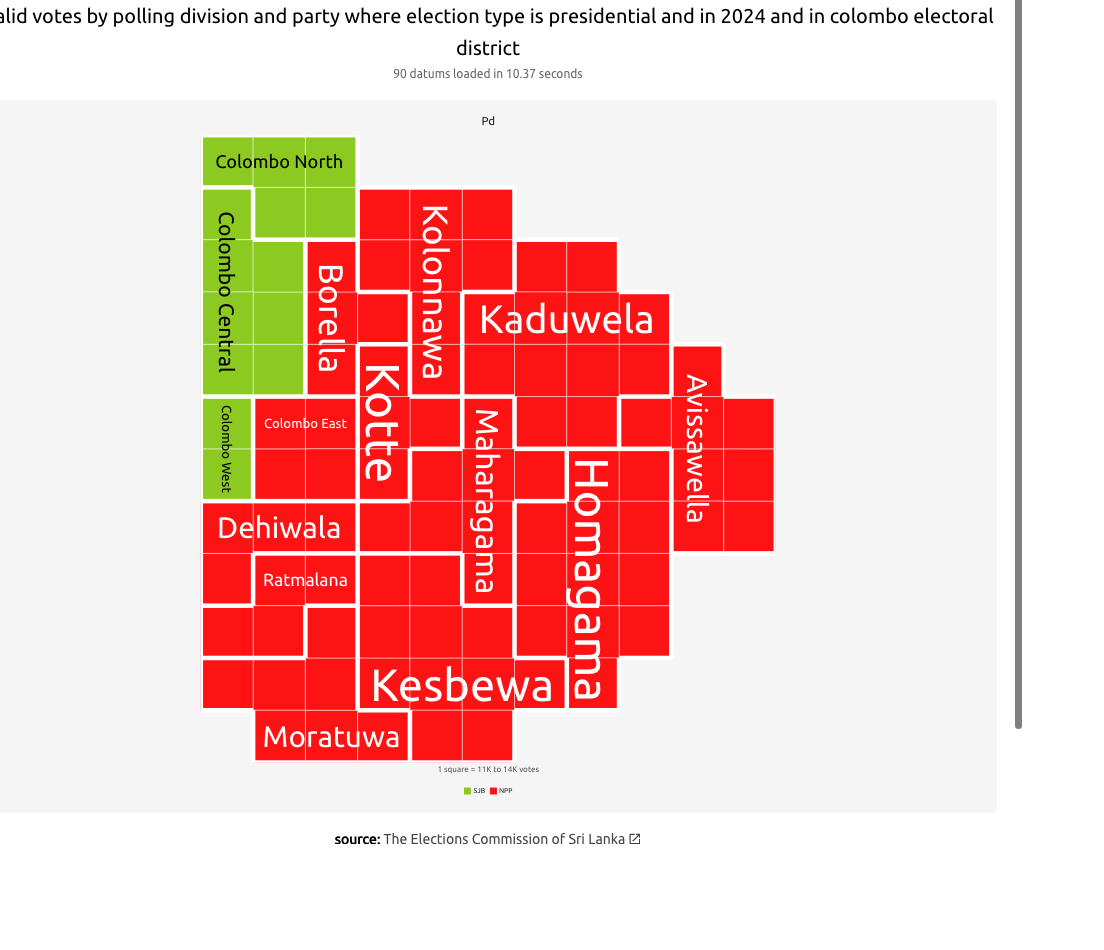
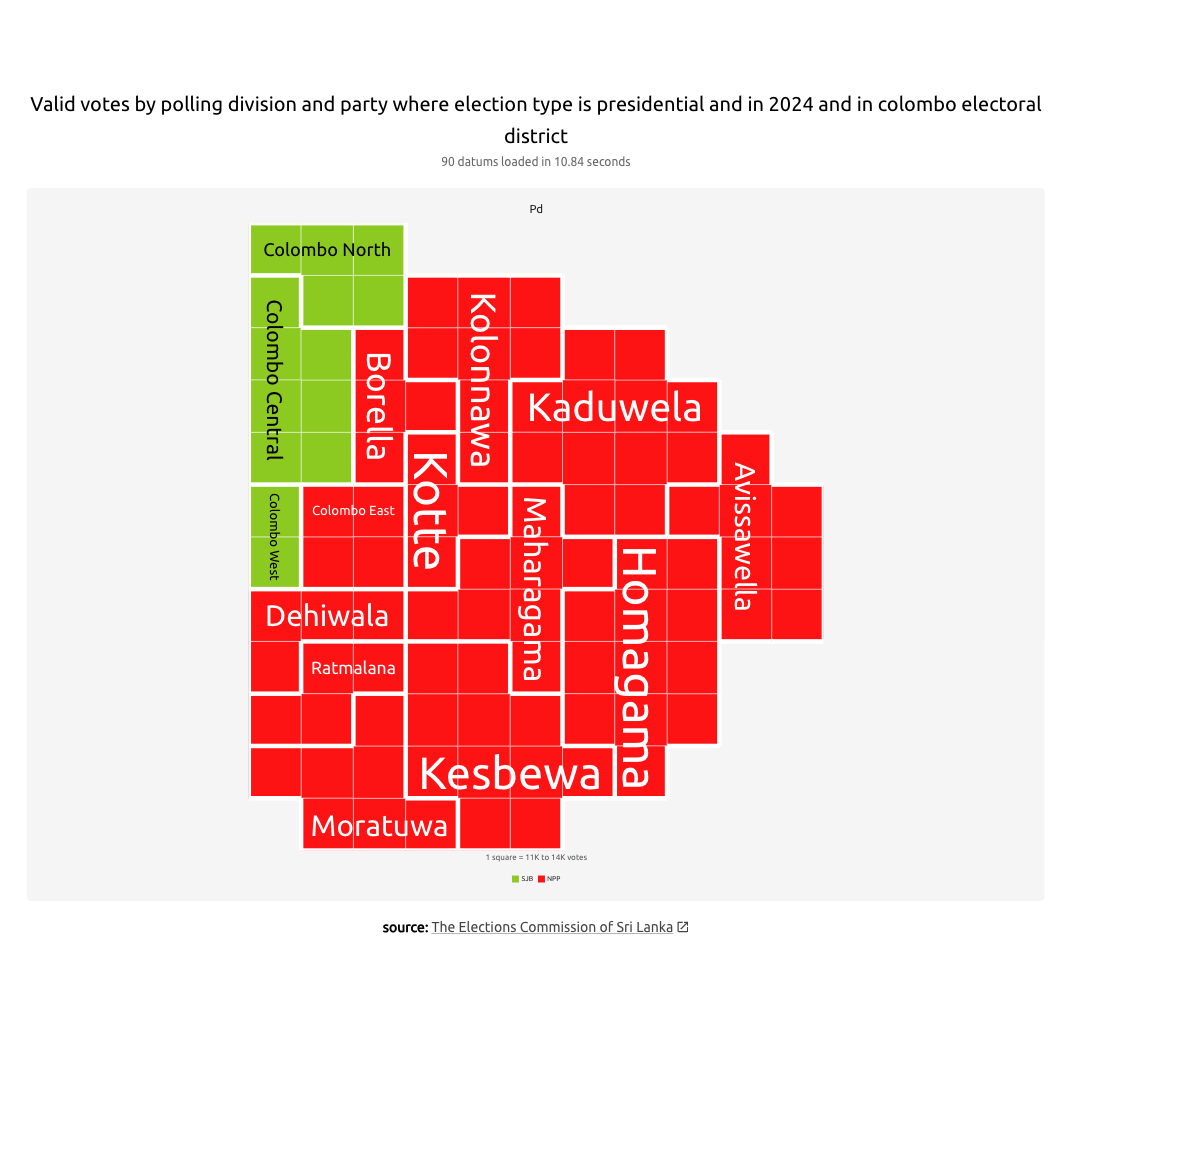
Refactor code structure for improved readability and maintainability

diff --git a/src/view/moles/visuals/PieChart.js b/src/view/moles/visuals/PieChart.js
@@ -3,15 +3,26 @@ import { Box, Typography } from "@mui/material";
 
 import { NIVO_THEME } from "../../../AppTheme.js";
 import { getMarkColor } from "../../../nonview/constants/COLORS.js";
+import {
+  PIE_CHART_HEIGHT,
+  PIE_START_ANGLE,
+  PIE_TOTAL_LABEL_OFFSET_PX,
+  PIE_TOTAL_LABEL_FONT_SIZE,
+  PIE_ARC_LABEL_MIN_ANGLE,
+} from "../../../nonview/constants/ChartLabels.js";
 import FormatUtils from "../visual_utils/FormatUtils.js";
 import PieArcLabel from "./PieArcLabel.js";
 
-const CHART_HEIGHT = 400;
-const PIE_START_ANGLE = -90;
-const TOTAL_LABEL_OFFSET_PX = 12;
-
 function getSortedData(data) {
-  return [...data].sort(
+  const categories = new Map();
+  for (const datum of data) {
+    const existing = categories.get(datum.id);
+    categories.set(datum.id, {
+      ...datum,
+      value: (existing?.value ?? 0) + datum.value,
+    });
+  }
+  return [...categories.values()].sort(
     (first, second) =>
       second.value - first.value || first.id.localeCompare(second.id),
   );
@@ -23,10 +34,10 @@ export default function PieChart({ data, total, maxTotal }) {
   const totalLabel = FormatUtils.humanizeValue(total);
 
   return (
-    <Box sx={{ width: "100%", minHeight: CHART_HEIGHT * scale }}>
+    <Box sx={{ width: "100%", minHeight: PIE_CHART_HEIGHT * scale }}>
       <Box
         sx={{
-          height: CHART_HEIGHT,
+          height: PIE_CHART_HEIGHT,
           transform: `scale(${scale})`,
           transformOrigin: "center",
         }}
@@ -39,7 +50,7 @@ export default function PieChart({ data, total, maxTotal }) {
           borderWidth={1}
           borderColor={{ from: "color", modifiers: [["darker", 0.2]] }}
           arcLabel={({ value }) => FormatUtils.humanizeValue(value)}
-          arcLabelsSkipAngle={10}
+          arcLabelsSkipAngle={PIE_ARC_LABEL_MIN_ANGLE}
           arcLabelsComponent={PieArcLabel}
           enableArcLinkLabels={false}
           innerRadius={0.5}
@@ -50,9 +61,9 @@ export default function PieChart({ data, total, maxTotal }) {
             ({ centerX, centerY }) => (
               <text
                 x={centerX}
-                y={centerY + TOTAL_LABEL_OFFSET_PX}
+                y={centerY + PIE_TOTAL_LABEL_OFFSET_PX}
                 textAnchor="middle"
-                style={{ fontSize: 18, fontWeight: 600 }}
+                style={{ fontSize: PIE_TOTAL_LABEL_FONT_SIZE, fontWeight: 600 }}
               >
                 {totalLabel}
               </text>

diff --git a/src/nonview/constants/ChartLabels.js b/src/nonview/constants/ChartLabels.js
@@ -2,3 +2,8 @@ export const IN_BAR_LABEL_CHARACTER_WIDTH_RATIO = 0.6;
 export const IN_BAR_LABEL_MIN_FONT_SIZE = 6;
 export const IN_BAR_LABEL_PADDING = 2;
 export const IN_BAR_LABEL_STROKE_WIDTH = 0.3;
+export const PIE_CHART_HEIGHT = 400;
+export const PIE_START_ANGLE = -90;
+export const PIE_TOTAL_LABEL_OFFSET_PX = 12;
+export const PIE_TOTAL_LABEL_FONT_SIZE = 18;
+export const PIE_ARC_LABEL_MIN_ANGLE = 10;
